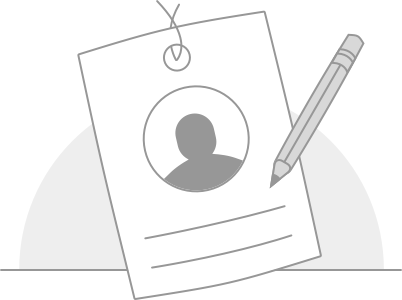
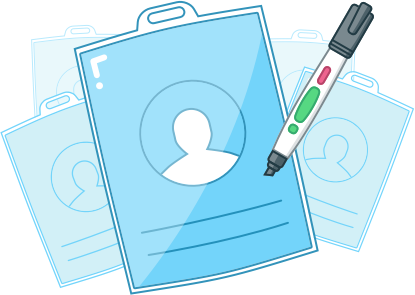
Add latest sign in illustration

diff --git a/src/routes/SignUp/style.scss b/src/routes/SignUp/style.scss
@@ -13,7 +13,7 @@
 }
 
 .SignUp__content {
-  margin: 56px 0;
+  margin: 48px 0;
   line-height: 1.5;
   font-size: 20px;
 }
